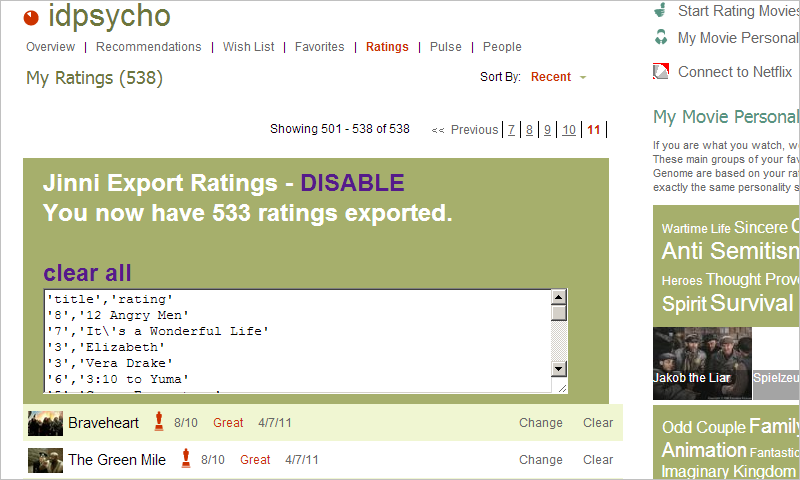
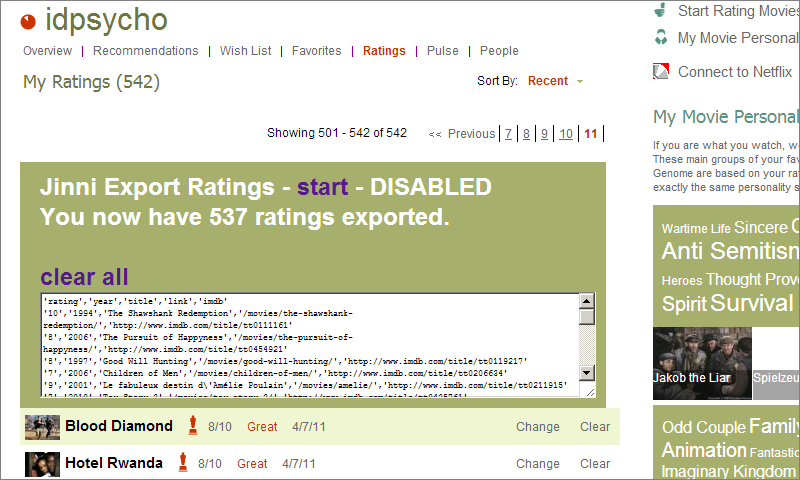
fixed csv generator, added extracting year of movies and imdb links

diff --git a/jinni-exporter.js b/jinni-exporter.js
@@ -7,7 +7,6 @@ function trim(s){ return s.replace(/^\s+|\s+$/g,""); };
 var g_arrRatings = [];
 var g_arrTodo = [];
 var numLoading = 0;
-var keepGoing = 1;
 
 load_jquery();
 define_helpers();
@@ -59,12 +58,16 @@ function isLastPage()
 
 	return (btnText != 'next');
 }
+function refreshPage()
+{
+	$('.scrollerNumbers .activePage a').click();
+}
 function gotoNextPage()
 {
 	setTimeout(function()
 	{
 		var btnNext = $('.scrollerNumbers a:last');
-		if (keepGoing) btnNext.click();
+		if (isExportingEnabled()) btnNext.click();
 	}, 3000);
 
 	return true;
@@ -80,7 +83,11 @@ function isLocationRatings()
 
 function ready()
 {
-	if (!isLocationRatings('alerts otherwise'))
+	if (!isLocationRatings())
+		return;
+
+	// jinni is weird, sometimes returns empty page
+	if (!$('body>*').length)
 		return;
 
 
@@ -101,34 +108,33 @@ function ready()
 
 	}
 
-	showResultsInTextarea( isLastPage, false );
-
-	// we need to extract them serially
-	// otherwise site sometimes returns content not matching requested url
-	// and i want rows to clear off 1 by 1, so thats why not do sync ajax
-	g_arrTodo = arrNewRatings;
-	extractNextImdbLink();
-
-}
-function finishedExtracting()
-{
 	localStorage_set('my jinni ratings', g_arrRatings);
 
-	showResultsInTextarea( isLastPage(), true );
+	if (!isExportingEnabled())
+		return showInfo("Press 'Start' to start extracting..");
 
-	if (isExportingEnabled())
+	var nNew = arrNewRatings.length;
+	var msg = nNew ? 'Added/updated '+nNew+' ratings.' : '';
+	showInfo( msg );
+
+	if (!isLastPage())
 	{
-		if (isLastPage())
-		{
-			exportingToggle(0);
+		showInfo(msg+'<br>Going to the next page in 3 secs..');
+		return gotoNextPage();	// continue
+	}
+	else // on last page
+	{
+		exportingToggle(0);
 
-			if (g_arrRatings.length)
-				alert('That was the last page.\nYou can now copy your results.');
-			else
-				alert('Either you have no ratings on jinni yet..\nOr something went wrong..\nOr you are not logged in..');
+		// got to do that one by one, functions will call itself..
+		g_arrTodo = [];
+		for (var i=0; i < g_arrRatings.length; i++)
+		{
+			var r = g_arrRatings[i];
+			if (!r.imdb || !r.year)
+				g_arrTodo.push(r);
 		}
-		else
-			gotoNextPage();
+		extractNextImdbLink();
 	}
 }
 
@@ -159,16 +165,18 @@ function extractRatings(html)
 // extracting imdb links and release year
 function extractNextImdbLink()
 {
-	if (!keepGoing) return;
+	//if (!isExportingEnabled()) return;
+
+	showInfo("Exporting movie's year and imdb link..");
+	var nTotal = g_arrRatings.length;
+	var nTodo = g_arrTodo.length;
+	$('#jinniExporterCount').text( (nTotal-nTodo) +'/'+nTotal  );
 
 	var next = g_arrTodo.splice(0, 1)[0];
-
-	$('#jinniExporterCount').text( g_arrRatings.length - g_arrTodo.length );
-
 	if (next)
 		extractImdbFromLink(next.title, next.link);
 	else
-		finishedExtracting();
+		showInfo('Finished extracting..');
 }
 function extractImdbFromLink(title, link)
 {
@@ -194,20 +202,15 @@ function extractImdbFromHtml(title, resp, link)
 	if (title!=title_)
 		console.log(title+' (thats weird, title doesnt match)\n'+title_);
 
-	var row = $('[href="'+link+'"]');
-
 	var pos = g_arrRatings.findPosByAttr('title', title);
 	if (pos >= 0)
 	{
 		g_arrRatings[pos].year = year;
 		g_arrRatings[pos].imdb = imdb;
-		row.css('font-weight', 'bold');
+		localStorage_set('my jinni ratings', g_arrRatings);
 	}
 	else
-	{
 		console.log('cant find movie by that name, wtf');
-		row.css('color', 'red');
-	}
 
 	extractNextImdbLink();
 }
@@ -219,14 +222,14 @@ function extractImdbFromHtml(title, resp, link)
 function clearExported()
 {
 	localStorage_del('my jinni ratings');
-	$('#jinniExporterCount').text('0');
-	$('#jinniExporterResults').val('');
-	alert('Cleared.');
+	showInfo('Cleared.');
 	return false;
 }
 function stopAll()
 {
-	keepGoing = 0;
+	localStorage_del('jinni exporter enabled')
+	showInfo();
+
 	return false;
 }
 function saveExported()
@@ -237,7 +240,7 @@ function saveExported()
 
 function isExportingEnabled()
 {
-	return localStorage_get('jinni exporter status');
+	return localStorage_get('jinni exporter enabled');
 }
 function exportingToggle(action)
 {
@@ -251,30 +254,24 @@ function exportingToggle(action)
 			return '<a href="#" onclick="return exportingToggle(1)">start</a>'+s;
 	}
 
-	localStorage_set('jinni exporter status', action?'enabled':'');
+	localStorage_set('jinni exporter enabled', action?1:0);
 	if (action)
-		window.location.reload();
+		refreshPage();	// resubmits, so we dont jump to page 1
 	else
 		stopAll()
 
 	return false;
 }
-function showResultsInTextarea( isLastPage, isFinished )
+function showInfo(msgAdd)
 {
 	$('#jinniExporter').remove();
 
+	var nRatings = (localStorage_getArray('my jinni ratings')||[]).length;
 	var msg = 'Jinni Export Ratings - '+exportingToggle()+'<br>';
-	msg += 'You now have <span id="jinniExporterCount">'+g_arrRatings.length+'</span> ratings exported.<br>';
+	msg += 'You now have <span id="jinniExporterCount">'+nRatings+'</span> ratings exported.<br>';
 
-	if (isExportingEnabled())
-	{
-		if (!isLastPage && isFinished)
-			msg += '<small>Going to the next page in 3 sec...</small>';
-	}
-	else
-	{
-		msg += '<small>Click on "start" for exporting.</small>';
-	}
+	if (msgAdd)
+		msg += '<small>'+msgAdd+'</small>';
 
 	msg += '<br>';
 	msg += '<a href="#" onclick="return clearExported()">clear all</a>';
@@ -296,13 +293,13 @@ function showResultsInTextarea( isLastPage, isFinished )
 function ratingsInCSV()
 {
 	var arr = localStorage_getArray('my jinni ratings');
-	var csv = "'rating','year','title','link','imdb'\n";
+	var csv = '"rating","year","title","link","imdb"\n';
 
-	function esc(s) { return (''+s).replace(/'/g, "\\'"); }
-	for (var i=0; i < arr.length; i++)
+	function esc(s) { return (''+s).replace(/"/g, '""'); }	// replace dquote by twice dquote
+	for (var i=arr.length-1; i >= 0; i--)
 	{
 		var r = arr[i];
-		csv += "'{0}','{1}','{2}','{3}','{4}'\n".format(
+		csv += '"{0}","{1}","{2}","{3}","{4}"\n'.format(
 			esc(r.rating), esc(r.year||''), esc(r.title), esc(r.link), esc(r.imdb||'')
 		);
 	}

diff --git a/index.htm b/index.htm
@@ -20,14 +20,6 @@
 </script>
 <body>
 
-<div style="text-align: center; display: inline-block;">
-	<img src="arrow.png"><br>
-	<a id="bookmarklet" href="javascript: function load(src, fn) { var x=document.createElement('script'); x.type='text/javascript'; x.src=src; if (fn) { x.onreadystate=fn; x.onload=fn; } document.head.appendChild( x ); }; load('http://p.brm.sk/jinni-exporter/jinni-exporter.js', function() { } );">Jinni-Exporter<br><small>(drag me up there)</small></a>
-</div>
-
-<br>
-<br>
-<br>
 Project's page: <a href="https://github.com/idpsycho/jinni-export-ratings">Jinni Export Ratings</a>
 <br>
 <br>

diff --git a/README.md b/README.md
@@ -1,4 +1,6 @@
 # Jinni.com Ratings Exporter
+<img src="http://p.brm.sk/jinni-exporter/jinni-exporter.png">
+
 Allows you to export your ratings to use with any other movie database.
 You have to be logged in to jinni.com, and be in your ratings page: http://www.jinni.com/user/YOUR_USER_NAME/ratings/ .
 
@@ -8,8 +10,7 @@ Install following extension into browser: <a href="http://p.brm.sk/jinni-exporte
 
 - Firefox - simply click on the link
 - Chrome - download the file, open extension manager (Menu/Tools/Extensions), then drag the file in there
-- Opera doesnt work <a style="display: none;" href="http://www.opera.com/docs/userjs/using/#writingscripts">- how to</a>
-- IE - nobody uses that
+- Opera doesnt work (if it ever works, here is extensions <a style="display: none;" href="http://www.opera.com/docs/userjs/using/#writingscripts"> how to</a>)
 
 
 ### Let me know what you think
@@ -17,15 +18,11 @@ I might be adding imdb importer soon.
 Write to <a href="idpsycho@gmail.com">idpsycho@gmail.com</a> or <a href="http://p.brm.sk/jinni-exporter/">donate</a>.
 
 
-### Screenshot - this is how it looks and works
-<img src="http://p.brm.sk/jinni-exporter/jinni-exporter.png">
-
-
 ### Why is it so slow?
 There is a chain of reasons for that.
 
 1. We can't get the year of the movie from the ratings page, so we have to load every movie page and extract it from there. (good thing is that jinni also has links to imdb, that makes it easy to import those ratings into imdb)
-2. Every page takes from around 1 second to load (and that's without images and tens of script files, jinni is very slow)
+2. Every page takes around 1 second to load (and that's without images and tens of script files, jinni is very slow)
 3. It is not even possible to load the pages parallely. When I request many pages at once, sometimes it simply returns the first one requested to all the requests.
 
 So in the end it becomes: # of ratings * second. So for my 600 ratings, it takes 10 minutes.
